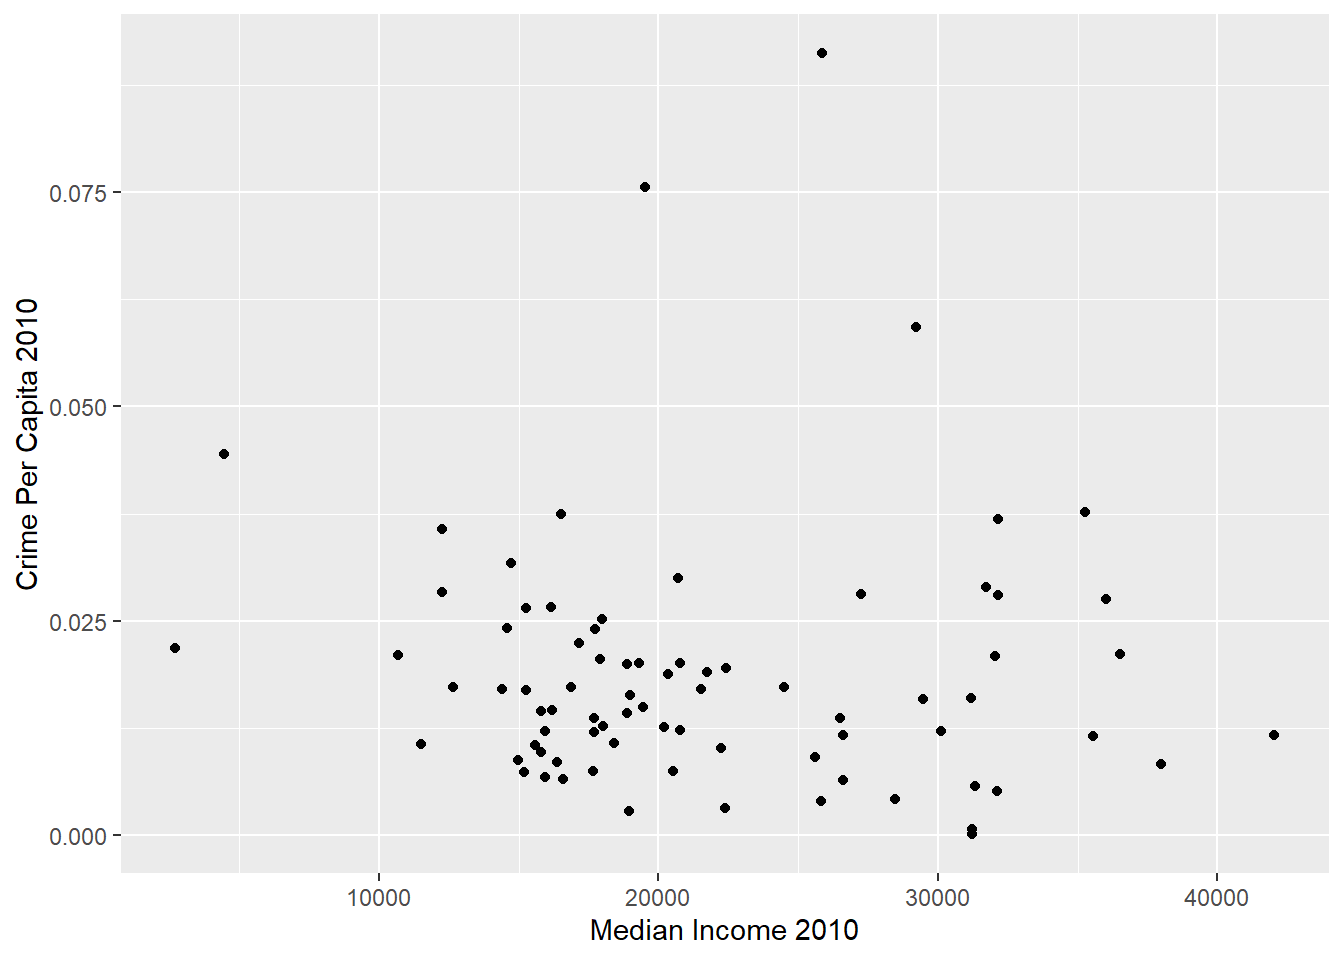
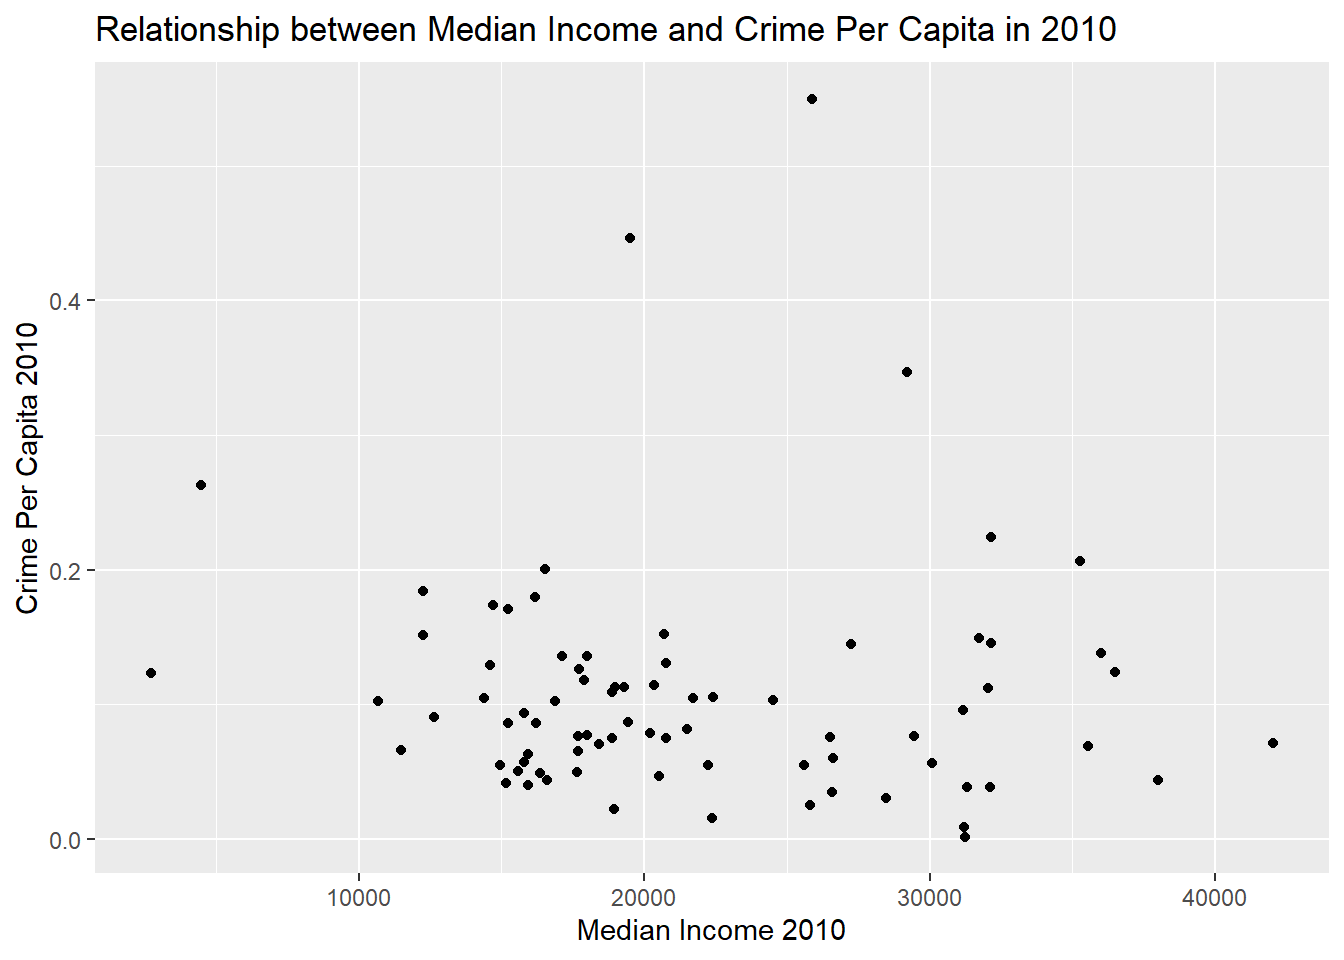
Add regression

diff --git a/docs/index.html b/docs/index.html
@@ -464,12 +464,11 @@ crime_year &lt;- cbind(crime_date, inc_tracts, stringsAsFactors = FALSE)
 #Recategorize crime types
 crime_year$parent_incident_type &lt;- as.factor(crime_year$parent_incident_type) %&gt;%
   fct_collapse(crime_year$parent_incident_type, 
-                  Theft = c(&quot;Theft of Vehicle&quot;, &quot;Theft&quot;),
+                  Theft = c(&quot;Theft of Vehicle&quot;, &quot;Theft&quot;, &quot;Robbery&quot;),
                   Sexual_Offenses = c(&quot;Sexual Assault&quot;, &quot;Other Sexual Offense&quot;),
                   Breaking_entering = &quot;Breaking &amp; Entering&quot;,
                   Assault = &quot;Assault&quot;,
-                  Homicide = &quot;Homicide&quot;,
-                  Robbery = &quot;Robbery&quot;)
+                  Homicide = &quot;Homicide&quot;)
 
 #clean/filter crime data, drop geometry
 crime2017 &lt;- crime_year %&gt;%
@@ -493,8 +492,7 @@ crime2010 &lt;- crime_year %&gt;%
 c2010_spread &lt;- spread(crime2010, parent_incident_type, total)
 
 c2010_spread[is.na(c2010_spread)] &lt;- 0</code></pre>
-<div id="clean-income-data-and-join-datasets" class="section level3">
-<h3>Clean income data and join datasets</h3>
+<p>Clean income data and join datasets</p>
 <pre class="r"><code>#Remove and rename columns
 income_clean17 &lt;- income_crop2017 %&gt;%
   select(-moe, -variable, -GEOID)
@@ -523,14 +521,14 @@ inc_pop2017 &lt;- cbind(income_clean17, pop2017_clean) %&gt;%
 
 inc_pop2010 &lt;- cbind(income_clean10, pop2010_clean) %&gt;%
   select(-NAME.1, -geometry.1)</code></pre>
-<pre class="r"><code>#Find mean total crime per tract ??? DO I NEED THIS
+<pre class="r"><code>#Find mean total crime per tract
 crimeAvg2017 &lt;- crime_income2017 %&gt;%
   group_by(NAME, MedianInc) %&gt;%
-  summarize(meancrime = mean(c(Assault, Breaking_entering, Sexual_Offenses, Robbery, Theft)))
+  summarize(meancrime = mean(c(Assault, Breaking_entering, Sexual_Offenses, Theft)))
 
 crimeAvg2010 &lt;- crime_income2010 %&gt;%
   group_by(NAME, MedianInc) %&gt;%
-  summarize(meancrime = mean(c(Assault, Breaking_entering, Sexual_Offenses, Robbery, Theft)))
+  summarize(meancrime = mean(c(Assault, Breaking_entering, Sexual_Offenses, Theft)))
 
 #Calculate crime rate per population
 cpp17 &lt;- crimeAvg2017[ order(match(crimeAvg2017$NAME, inc_pop2017$NAME)),]
@@ -548,55 +546,167 @@ cpp2017 &lt;- crime_pop2017 %&gt;%
 
 cpp2010 &lt;- crime_pop2010 %&gt;%
   mutate(AvgCPC = (meancrime/Population))</code></pre>
+<pre class="r"><code>#Join population and crime_spread 2010
+crimetype_pop10 &lt;- cbind(crime_income2010, pop2010_clean)
+
+avghom2010 &lt;- crimetype_pop10 %&gt;%
+  mutate(AvgHom = (Homicide/Population))
+
+#Join population and crime_spread 2017
+crimetype_pop17 &lt;- cbind(crime_income2017, pop2017_clean)
+
+avghom2017 &lt;- crimetype_pop17 %&gt;%
+  mutate(AvgHom = (Homicide/Population))</code></pre>
 </div>
-</div>
-<div id="run-regression" class="section level2">
-<h2>4. Run Regression</h2>
+<div id="run-regressionplot-the-relationship-between-crime-and-median-income" class="section level2">
+<h2>4. Run regression/Plot the relationship between crime and median income</h2>
 <pre class="r"><code>#2010 regression
 ggplot(cpp2010) + geom_point(aes(x = MedianInc, y = AvgCPC)) +
-  labs(x = &quot;Median Income 2010&quot;, y = &quot;Crime Per Capita 2010&quot;)</code></pre>
-<p><img src="index_files/figure-html/unnamed-chunk-7-1.png" width="672" /></p>
-<pre class="r"><code>ggplot(cpp2017) + geom_point(aes(x = MedianInc, y = AvgCPC)) +
-  labs(x = &quot;Median Income 2017&quot;, y = &quot;Crime Per Capita 2017&quot;)</code></pre>
+  labs(x = &quot;Median Income 2010&quot;, y = &quot;Crime Per Capita 2010&quot;, title = &quot;Relationship between Median Income and Crime Per Capita in 2010&quot;)</code></pre>
 <p><img src="index_files/figure-html/unnamed-chunk-8-1.png" width="672" /></p>
+<pre class="r"><code>ggplot(cpp2017) + geom_point(aes(x = MedianInc, y = AvgCPC)) +
+  labs(x = &quot;Median Income 2017&quot;, y = &quot;Crime Per Capita 2017&quot;, title = &quot;Relationship between Median Income and Crime Per Capita in 2017&quot;)</code></pre>
+<p><img src="index_files/figure-html/unnamed-chunk-9-1.png" width="672" /></p>
 <pre class="r"><code>#2017 regression
-#regress2017 &lt;- lm(Theft~MedianInc, data = crime_income2017)
-#summary(regress2017)
-
-#Plot relationship between crime and income 2017
-#ggplot(crime_income2017) + geom_point(aes(x = MedianInc, y = total, color = parent_incident_type))</code></pre>
+Assault2017_reg &lt;- lm(Assault~MedianInc, data = crimetype_pop17)
+summary(Assault2017_reg)</code></pre>
+<pre><code>## 
+## Call:
+## lm(formula = Assault ~ MedianInc, data = crimetype_pop17)
+## 
+## Residuals:
+##     Min      1Q  Median      3Q     Max 
+## -320.18  -91.58  -39.52   77.83  630.35 
+## 
+## Coefficients:
+##               Estimate Std. Error t value Pr(&gt;|t|)    
+## (Intercept) 340.070193  49.594980   6.857 1.55e-09 ***
+## MedianInc    -0.005114   0.002156  -2.373   0.0202 *  
+## ---
+## Signif. codes:  0 &#39;***&#39; 0.001 &#39;**&#39; 0.01 &#39;*&#39; 0.05 &#39;.&#39; 0.1 &#39; &#39; 1
+## 
+## Residual standard error: 148.9 on 77 degrees of freedom
+## Multiple R-squared:  0.06812,    Adjusted R-squared:  0.05602 
+## F-statistic: 5.629 on 1 and 77 DF,  p-value: 0.02016</code></pre>
+<pre class="r"><code>Theft2017_reg &lt;- lm(Theft~MedianInc, data = crimetype_pop17)
+summary(Theft2017_reg)</code></pre>
+<pre><code>## 
+## Call:
+## lm(formula = Theft ~ MedianInc, data = crimetype_pop17)
+## 
+## Residuals:
+##     Min      1Q  Median      3Q     Max 
+## -544.48 -258.01  -60.03  164.36 1959.41 
+## 
+## Coefficients:
+##              Estimate Std. Error t value Pr(&gt;|t|)   
+## (Intercept) 4.511e+02  1.328e+02   3.398  0.00108 **
+## MedianInc   7.752e-03  5.771e-03   1.343  0.18314   
+## ---
+## Signif. codes:  0 &#39;***&#39; 0.001 &#39;**&#39; 0.01 &#39;*&#39; 0.05 &#39;.&#39; 0.1 &#39; &#39; 1
+## 
+## Residual standard error: 398.6 on 77 degrees of freedom
+## Multiple R-squared:  0.0229, Adjusted R-squared:  0.01021 
+## F-statistic: 1.804 on 1 and 77 DF,  p-value: 0.1831</code></pre>
+<pre class="r"><code>BE2017_reg &lt;- lm(Breaking_entering~MedianInc, data = crimetype_pop17)
+summary(BE2017_reg)</code></pre>
+<pre><code>## 
+## Call:
+## lm(formula = Breaking_entering ~ MedianInc, data = crimetype_pop17)
+## 
+## Residuals:
+##     Min      1Q  Median      3Q     Max 
+## -280.14  -63.85  -21.76   55.94  415.50 
+## 
+## Coefficients:
+##               Estimate Std. Error t value Pr(&gt;|t|)    
+## (Intercept) 294.663328  37.309057   7.898  1.6e-11 ***
+## MedianInc    -0.004244   0.001622  -2.617   0.0107 *  
+## ---
+## Signif. codes:  0 &#39;***&#39; 0.001 &#39;**&#39; 0.01 &#39;*&#39; 0.05 &#39;.&#39; 0.1 &#39; &#39; 1
+## 
+## Residual standard error: 112 on 77 degrees of freedom
+## Multiple R-squared:  0.08168,    Adjusted R-squared:  0.06976 
+## F-statistic: 6.849 on 1 and 77 DF,  p-value: 0.01067</code></pre>
+<pre class="r"><code>#No correlation
+SO2017_reg &lt;- lm(Sexual_Offenses~MedianInc, data = crimetype_pop17)
+summary(SO2017_reg)</code></pre>
+<pre><code>## 
+## Call:
+## lm(formula = Sexual_Offenses ~ MedianInc, data = crimetype_pop17)
+## 
+## Residuals:
+##     Min      1Q  Median      3Q     Max 
+## -23.694  -9.379  -3.715   7.705  76.810 
+## 
+## Coefficients:
+##               Estimate Std. Error t value Pr(&gt;|t|)    
+## (Intercept) 25.9257386  4.8525795   5.343 9.02e-07 ***
+## MedianInc   -0.0002760  0.0002109  -1.308    0.195    
+## ---
+## Signif. codes:  0 &#39;***&#39; 0.001 &#39;**&#39; 0.01 &#39;*&#39; 0.05 &#39;.&#39; 0.1 &#39; &#39; 1
+## 
+## Residual standard error: 14.57 on 77 degrees of freedom
+## Multiple R-squared:  0.02175,    Adjusted R-squared:  0.009047 
+## F-statistic: 1.712 on 1 and 77 DF,  p-value: 0.1946</code></pre>
+<pre class="r"><code>#Highest correlation
+Hom2017_reg &lt;- lm(Homicide~MedianInc, data = crimetype_pop17)
+summary(Hom2017_reg)</code></pre>
+<pre><code>## 
+## Call:
+## lm(formula = Homicide ~ MedianInc, data = crimetype_pop17)
+## 
+## Residuals:
+##     Min      1Q  Median      3Q     Max 
+## -6.7832 -2.4382 -0.6611  1.5548  8.3505 
+## 
+## Coefficients:
+##               Estimate Std. Error t value Pr(&gt;|t|)    
+## (Intercept)  7.246e+00  1.129e+00   6.415 1.04e-08 ***
+## MedianInc   -1.703e-04  4.909e-05  -3.470 0.000856 ***
+## ---
+## Signif. codes:  0 &#39;***&#39; 0.001 &#39;**&#39; 0.01 &#39;*&#39; 0.05 &#39;.&#39; 0.1 &#39; &#39; 1
+## 
+## Residual standard error: 3.39 on 77 degrees of freedom
+## Multiple R-squared:  0.1352, Adjusted R-squared:  0.124 
+## F-statistic: 12.04 on 1 and 77 DF,  p-value: 0.0008559</code></pre>
+<pre class="r"><code>#Plot relationship between homicide and crime
+ggplot(avghom2017) + geom_point(aes(x = MedianInc, y = Homicide)) + labs(x = &quot;Median Income 2017&quot;, y = &quot;Crime Per Capita 2017&quot;, title = &quot;Relationship between Median Income and Homicide Per Capita in 2017&quot;)</code></pre>
+<p><img src="index_files/figure-html/unnamed-chunk-9-2.png" width="672" /></p>
 </div>
 </div>
 <div id="results" class="section level1">
 <h1>Results</h1>
-<div id="plot-median-income-and-crime-per-capita-for-2010-and-2017" class="section level2">
-<h2>Plot median income and crime per capita for 2010 and 2017</h2>
+<div id="plot-median-income-and-crime-per-capita-for-2010-and-2017" class="section level3">
+<h3>Plot median income and crime per capita for 2010 and 2017</h3>
 <p>This figure is a map of median income and median crime for 2010 by census tract in Buffalo, NY</p>
 <pre class="r"><code>mapinc10 &lt;- ggplot(cpp2010) + geom_sf(aes(fill = MedianInc)) +
-  scale_fill_viridis_c() + labs(fill = &quot;Median Income&quot;)
+  scale_fill_viridis_c() + labs(fill = &quot;Median Income&quot;) +
+  theme(panel.background = element_blank())
 
 mapcrime10 &lt;- ggplot(cpp2010) + geom_sf(aes(fill = AvgCPC)) + 
-  scale_fill_viridis_c() + labs(fill = &quot;Average CPC&quot;)
+  scale_fill_viridis_c() + labs(fill = &quot;Average CPC&quot;) +
+  theme(panel.background = element_blank())
 
 grid.arrange(mapinc10, mapcrime10, nrow = 1)</code></pre>
 <div class="figure">
-<img src="index_files/figure-html/unnamed-chunk-10-1.png" alt="2010 Income and Crime" width="960" />
+<img src="index_files/figure-html/unnamed-chunk-11-1.png" alt="2010 Income and Crime" width="960" />
 <p class="caption">
 2010 Income and Crime
 </p>
 </div>
-<pre class="r"><code>#maybe average crime types group by year and then summarize across tracts
-#ggplot(crime2010) + geom_line(aes(x = crime_date, y = total, color = parent_incident_type, group = NAME))</code></pre>
 <p>This figure is a map of median income and median crime for 2017 by census tract in Buffalo, NY</p>
 <pre class="r"><code>mapinc17 &lt;- ggplot(cpp2017) + geom_sf(aes(fill = MedianInc)) +
-  scale_fill_viridis_c() + labs(fill = &quot;Median Income&quot;)
+  scale_fill_viridis_c() + labs(fill = &quot;Median Income&quot;) + 
+  theme(panel.background = element_blank())
 
 mapcrime17 &lt;- ggplot(cpp2017) + geom_sf(aes(fill = AvgCPC)) + 
-  scale_fill_viridis_c() + labs(fill = &quot;Average CPC&quot;)
+  scale_fill_viridis_c() + labs(fill = &quot;Average CPC&quot;) +
+  theme(panel.background = element_blank())
 
 grid.arrange(mapinc17, mapcrime17, nrow = 1)</code></pre>
 <div class="figure">
-<img src="index_files/figure-html/unnamed-chunk-11-1.png" alt="2017 Income and Crime" width="960" />
+<img src="index_files/figure-html/unnamed-chunk-12-1.png" alt="2017 Income and Crime" width="960" />
 <p class="caption">
 2017 Income and Crime
 </p>
@@ -604,10 +714,25 @@ grid.arrange(mapinc17, mapcrime17, nrow = 1)</code></pre>
 </div>
 <div id="plot-crime-by-type" class="section level2">
 <h2>Plot crime by type</h2>
+<p>Homicide 2010</p>
+<pre class="r"><code>hom2010map &lt;- ggplot(avghom2010) + geom_sf(aes(fill = AvgHom)) + scale_fill_viridis_c() + 
+  theme(panel.background = element_blank()) +
+  labs(fill = &quot;Avg Homicide PC&quot;)
+
+grid.arrange(mapinc17, hom2010map, nrow = 1)</code></pre>
+<p><img src="index_files/figure-html/unnamed-chunk-13-1.png" width="960" /></p>
+<p>Homicide 2017</p>
+<pre class="r"><code>hom2017map &lt;- ggplot(avghom2017) + geom_sf(aes(fill = AvgHom)) + scale_fill_viridis_c() +
+  theme(panel.background = element_blank()) +
+  labs(fill = &quot;Avg Homicide PC&quot;)
+
+grid.arrange(mapinc17, hom2017map, nrow = 1)</code></pre>
+<p><img src="index_files/figure-html/unnamed-chunk-14-1.png" width="960" /></p>
 </div>
 </div>
 <div id="conclusions" class="section level1">
 <h1>Conclusions</h1>
+<p>Overall, it does not seem like median income alone has a large impact on crime. However, the relationship between crime and median income is higher when examining violent crimes, particularly in 2017. Median income was statistically correlated with homicide, assault, and breaking &amp; entering, but not theft or sexual offenses for 2017.</p>
 </div>
 <div id="references" class="section level1">
 <h1>References</h1>
